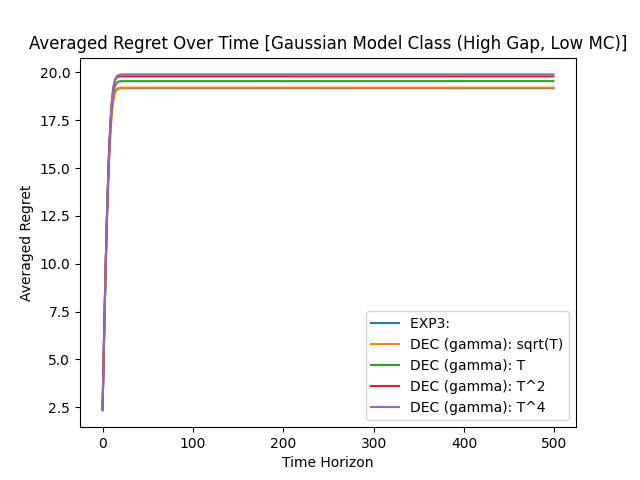
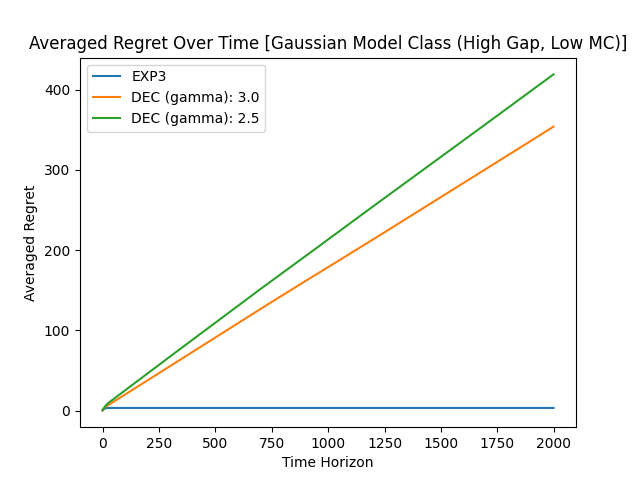
Now, we have some proper results: DEC is terrible in low MC and improves as MC increases

diff --git a/src/e2d/dec_player.py b/src/e2d/dec_player.py
@@ -21,47 +21,25 @@ class DEC_Player(Player):
 
     def select_action(self, f_m_hat, sq_hellinger_map):
         m_hat_index = self.algEst.get_m_hat_index()
-        sq_hellinger_map = self.get_sq_hellinger_map(m_hat_index, sq_hellinger_map)
-        self.dec_solver.compute_strategy(f_m_hat, sq_hellinger_map, self.gamma)
-        self.current_p = self.dec_solver.p_hat
+        self.dec_solver.compute_strategy(f_m_hat, sq_hellinger_map, self.gamma, m_hat_index, self.algEst.current_sampling_distribution())
+        self.current_p = self.dec_solver.p_hat / np.sum(self.dec_solver.p_hat)
+        self.dec = self.dec_solver.DEC_hat
         return np.random.choice(self.K, p = self.current_p)
 
     def update_training_dataset(self, r_t, a_t, f_m_hat, model_class, run, t):
-        self.algEst.add_to_training_data_set(f_m_hat[:, a_t], r_t)
+        self.algEst.add_to_training_data_set(f_m_hat[:, a_t], r_t, self.current_p[a_t])
         if (t == 0):
-            self.accumulated_regret[run][0] = model_class.compute_instantaneous_regret(self.current_p)
+            self.accumulated_regret[run][0] = model_class.compute_instantaneous_regret(self.current_p, self.label, t)
         else:
-            self.accumulated_regret[run][t] = self.accumulated_regret[run][t-1] + model_class.compute_instantaneous_regret(self.current_p)
+            self.accumulated_regret[run][t] = self.accumulated_regret[run][t-1] + model_class.compute_instantaneous_regret(self.current_p, self.label, t)
 
-        if (t == self.T - 1):
+        if (run % 10 == 0 and t == self.T - 1):
             self.algEst.clear()
-            print("Final Averaged Regret of Player {0} of run {1} : {2}".format(self.label, run, self.accumulated_regret[run][self.T - 1]))
+            print("Regret of Player {0} of run {1} : {2} with DEC Estimate {3}".format(self.label, run, self.accumulated_regret[run][self.T - 1], self.dec))
 
     def plot_averaged_regret(self):
         sd = 1.96 * (np.std(self.accumulated_regret, axis = 0) / np.sqrt(self.numRuns))
         plt.plot(range(self.T), np.mean(self.accumulated_regret, axis=0), label=self.label)
 
-    def get_sq_hellinger_map(self, m_hat_index, sq_hellinger_divergence_map):
-        combs = list(itertools.combinations(range(self.M), 2))
-        relevant_comb_indices = []
-
-        searching_for_model_ind = 0
-        if (m_hat_index == 0):
-            searching_for_model_ind = 1
-
-        for i in range(len(combs)):
-            if ((combs[i][0] == m_hat_index and combs[i][1] == searching_for_model_ind)):
-                relevant_comb_indices.append(i)
-                searching_for_model_ind += 1
-            elif((combs[i][1] == m_hat_index and combs[i][0] == searching_for_model_ind)):
-                relevant_comb_indices.append(i)
-                searching_for_model_ind += 1
-                if (searching_for_model_ind == m_hat_index):
-                    searching_for_model_ind += 1
-        sq_hellinger_map = np.zeros(shape = (self.M, self.K))
-        j = 0
-        for i in range(self.M):
-            if (i != m_hat_index):
-                sq_hellinger_map[i, :] = sq_hellinger_divergence_map[relevant_comb_indices[j], :]
-                j += 1
-        return sq_hellinger_map
+    def get_final_averaged_regret(self):
+        return np.mean(self.accumulated_regret, axis = 0)[self.T - 1]

diff --git a/src/e2d/meta_algo.py b/src/e2d/meta_algo.py
@@ -26,7 +26,11 @@ class Meta_Algo():
         for i in range(self.num_runs):
             self.mc_estimator.draw_samples(self.m)
             self.f_m_hat = self.mc_estimator.get_f_m_hat()
-            self.sq_hellinger_divergence_map = self.mc_estimator.get_sq_hellinger_divergence_hat()
+            
+            self.sq_hellinger_divergence_matrix = self.mc_estimator.get_sq_hellinger_divergence_hat()
+            self.sq_hellinger_divergence_map = np.zeros(shape = (self.M, self.M, self.K))
+            for y in range(self.M):
+                self.sq_hellinger_divergence_map[y] = self.get_sq_hellinger_map(y, self.sq_hellinger_divergence_matrix)
 
             for j in range(self.T):
                 for p in range(len(self.players)):
@@ -39,8 +43,40 @@ class Meta_Algo():
         plt.ylabel('Averaged Regret')
         plt.xlabel('Time Horizon')
         plt.title(self.title)
+
+        players_regret = np.zeros(shape = len(self.players))
         for p in range(len(self.players)):
-            self.players[p].plot_averaged_regret()
+            players_regret[p] = self.players[p].get_final_averaged_regret()
+
+        sorted_players = np.argsort(players_regret)
+        for i in range(3):
+            self.players[sorted_players[i]].plot_averaged_regret()
+
         plt.legend()
         plt.savefig("/Users/sidbajaj/MultiArmedBandits/results/e2d/" + self.file_name)
+    
+    def get_sq_hellinger_map(self, m_hat_index, sq_hellinger_divergence_map):
+        combs = list(itertools.combinations(range(self.M), 2))
+        relevant_comb_indices = []
+
+        searching_for_model_ind = 0
+        if (m_hat_index == 0):
+            searching_for_model_ind = 1
+
+        for i in range(len(combs)):
+            if ((combs[i][0] == m_hat_index and combs[i][1] == searching_for_model_ind)):
+                relevant_comb_indices.append(i)
+                searching_for_model_ind += 1
+            elif((combs[i][1] == m_hat_index and combs[i][0] == searching_for_model_ind)):
+                relevant_comb_indices.append(i)
+                searching_for_model_ind += 1
+                if (searching_for_model_ind == m_hat_index):
+                    searching_for_model_ind += 1
+        sq_hellinger_map = np.zeros(shape = (self.M, self.K))
+        j = 0
+        for i in range(self.M):
+            if (i != m_hat_index):
+                sq_hellinger_map[i, :] = sq_hellinger_divergence_map[relevant_comb_indices[j], :]
+                j += 1
+        return sq_hellinger_map
     

diff --git a/scripts/e2d/gaussian_e2d_2.py b/scripts/e2d/gaussian_e2d_2.py
@@ -11,22 +11,26 @@ from e2d.meta_algo import Meta_Algo
 from e2d.exp3_player import Exp3_Player
 from e2d.dec_player import DEC_Player
 
-np.random.seed(900)
-T = 500 # Time Horizon
+#np.random.seed(900)
+T = 2000 # Time Horizon
 K = 10 # Number of Arms
 M = 25 # Number of Models
-NUM_RUNS = 1000
+NUM_RUNS = 100
 m = 1000 # Monte-Carlo Sample Size
 
 model_class = Gaussian_Model_Collection(K = K, M = M, Optimality_Gap=2.5)
 mc_estimator = MC_Estimator(finite_model_class = model_class)
-exp3_player = Exp3_Player(M = M, T = T, K = K, numRuns = NUM_RUNS, algEst=Exp_Weights_Oracle(T = T, M = M), label="EXP3: ")
-dec_1_player = DEC_Player(M = M, T = T, K = K, numRuns = NUM_RUNS, algEst=Exp_Weights_Oracle(T = T, M = M), gamma = np.sqrt(T), label="DEC (gamma): sqrt(T)")
-dec_2_player = DEC_Player(M = M, T = T, K = K, numRuns = NUM_RUNS, algEst=Exp_Weights_Oracle(T = T, M = M), gamma = T, label="DEC (gamma): T")
-dec_3_player = DEC_Player(M = M, T = T, K = K, numRuns = NUM_RUNS, algEst=Exp_Weights_Oracle(T = T, M = M), gamma = T**2, label="DEC (gamma): T^2")
-dec_4_player = DEC_Player(M = M, T = T, K = K, numRuns = NUM_RUNS, algEst=Exp_Weights_Oracle(T = T, M = M), gamma = T**4, label="DEC (gamma): T^4")
+
+players = []
+players.append(Exp3_Player(M = M, T = T, K = K, numRuns = NUM_RUNS, algEst=Exp_Weights_Oracle(T = T, M = M), label="EXP3"))
+
+gamma = [0.25, 0.5, 0.75, 1.0, 1.5, 2.0, 2.5, 3.0, 5.0]
+for g in range(len(gamma)):
+    players.append(DEC_Player(M = M, T = T, K = K, numRuns = NUM_RUNS, algEst=Exp_Weights_Oracle(T = T, M = M), 
+                              gamma = gamma[g], label="DEC (gamma): {}".format(gamma[g])))
+
 meta_algo = Meta_Algo(M = M, K = K, T = T, 
-                      mc_estimator= mc_estimator, players=[exp3_player, dec_1_player, dec_2_player, dec_3_player, dec_4_player],
+                      mc_estimator= mc_estimator, players=players,
                       finite_model_class = model_class, num_runs = NUM_RUNS, m = m, 
                       file_name = "Gaussian_High_Gap_High_MC",
                       title = "Averaged Regret Over Time [Gaussian Model Class (High Gap, High MC)]")

diff --git a/scripts/e2d/gaussian_e2d_3.py b/scripts/e2d/gaussian_e2d_3.py
@@ -12,21 +12,25 @@ from e2d.exp3_player import Exp3_Player
 from e2d.dec_player import DEC_Player
 
 np.random.seed(900)
-T = 500 # Time Horizon
+T = 2000 # Time Horizon
 K = 10 # Number of Arms
 M = 25 # Number of Models
-NUM_RUNS = 1000
-m = 75 # Monte-Carlo Sample Size
+NUM_RUNS = 100
+m = 25 # Monte-Carlo Sample Size
 
 model_class = Gaussian_Model_Collection(K = K, M = M, Optimality_Gap=2.5)
 mc_estimator = MC_Estimator(finite_model_class = model_class)
-exp3_player = Exp3_Player(M = M, T = T, K = K, numRuns = NUM_RUNS, algEst=Exp_Weights_Oracle(T = T, M = M), label="EXP3: ")
-dec_1_player = DEC_Player(M = M, T = T, K = K, numRuns = NUM_RUNS, algEst=Exp_Weights_Oracle(T = T, M = M), gamma = np.sqrt(T), label="DEC (gamma): sqrt(T)")
-dec_2_player = DEC_Player(M = M, T = T, K = K, numRuns = NUM_RUNS, algEst=Exp_Weights_Oracle(T = T, M = M), gamma = T, label="DEC (gamma): T")
-dec_3_player = DEC_Player(M = M, T = T, K = K, numRuns = NUM_RUNS, algEst=Exp_Weights_Oracle(T = T, M = M), gamma = T**2, label="DEC (gamma): T^2")
-dec_4_player = DEC_Player(M = M, T = T, K = K, numRuns = NUM_RUNS, algEst=Exp_Weights_Oracle(T = T, M = M), gamma = T**4, label="DEC (gamma): T^4")
+
+players = []
+players.append(Exp3_Player(M = M, T = T, K = K, numRuns = NUM_RUNS, algEst=Exp_Weights_Oracle(T = T, M = M), label="EXP3"))
+
+gamma = [0.01, 0.1, 0.25, 0.5, 0.75, 1.0, 1.5, 2.0, 2.5, 3.0]
+for g in range(len(gamma)):
+    players.append(DEC_Player(M = M, T = T, K = K, numRuns = NUM_RUNS, algEst=Exp_Weights_Oracle(T = T, M = M), 
+                              gamma = gamma[g], label="DEC (gamma): {}".format(gamma[g])))
+
 meta_algo = Meta_Algo(M = M, K = K, T = T, 
-                      mc_estimator= mc_estimator, players=[exp3_player, dec_1_player, dec_2_player, dec_3_player, dec_4_player],
+                      mc_estimator= mc_estimator, players=players,
                       finite_model_class = model_class, num_runs = NUM_RUNS, m = m, 
                       file_name = "Gaussian_High_Gap_Low_MC",
                       title = "Averaged Regret Over Time [Gaussian Model Class (High Gap, Low MC)]")

diff --git a/scripts/e2d/gaussian_e2d_4.py b/scripts/e2d/gaussian_e2d_4.py
@@ -12,21 +12,25 @@ from e2d.exp3_player import Exp3_Player
 from e2d.dec_player import DEC_Player
 
 np.random.seed(900)
-T = 500 # Time Horizon
+T = 2000 # Time Horizon
 K = 10 # Number of Arms
 M = 25 # Number of Models
-NUM_RUNS = 1000
-m = 75 # Monte-Carlo Sample Size
+NUM_RUNS = 100
+m = 25 # Monte-Carlo Sample Size
 
 model_class = Gaussian_Model_Collection(K = K, M = M, Optimality_Gap=1.00)
 mc_estimator = MC_Estimator(finite_model_class = model_class)
-exp3_player = Exp3_Player(M = M, T = T, K = K, numRuns = NUM_RUNS, algEst=Exp_Weights_Oracle(T = T, M = M), label="EXP3: ")
-dec_1_player = DEC_Player(M = M, T = T, K = K, numRuns = NUM_RUNS, algEst=Exp_Weights_Oracle(T = T, M = M), gamma = np.sqrt(T), label="DEC (gamma): sqrt(T)")
-dec_2_player = DEC_Player(M = M, T = T, K = K, numRuns = NUM_RUNS, algEst=Exp_Weights_Oracle(T = T, M = M), gamma = T, label="DEC (gamma): T")
-dec_3_player = DEC_Player(M = M, T = T, K = K, numRuns = NUM_RUNS, algEst=Exp_Weights_Oracle(T = T, M = M), gamma = T**2, label="DEC (gamma): T^2")
-dec_4_player = DEC_Player(M = M, T = T, K = K, numRuns = NUM_RUNS, algEst=Exp_Weights_Oracle(T = T, M = M), gamma = T**4, label="DEC (gamma): T^4")
+
+players = []
+players.append(Exp3_Player(M = M, T = T, K = K, numRuns = NUM_RUNS, algEst=Exp_Weights_Oracle(T = T, M = M), label="EXP3"))
+
+gamma = [0.01, 0.1, 0.25, 0.5, 0.75, 1.0, 1.5, 2.0, 2.5, 3.0]
+for g in range(len(gamma)):
+    players.append(DEC_Player(M = M, T = T, K = K, numRuns = NUM_RUNS, algEst=Exp_Weights_Oracle(T = T, M = M), 
+                              gamma = gamma[g], label="DEC (gamma): {}".format(gamma[g])))
+
 meta_algo = Meta_Algo(M = M, K = K, T = T, 
-                      mc_estimator= mc_estimator, players=[exp3_player, dec_1_player, dec_2_player, dec_3_player, dec_4_player],
+                      mc_estimator= mc_estimator, players=players,
                       finite_model_class = model_class, num_runs = NUM_RUNS, m = m, 
                       file_name = "Gaussian_Low_Gap_Low_MC",
                       title = "Averaged Regret Over Time [Gaussian Model Class (Low Gap, Low MC)]")

diff --git a/src/e2d/exp3_player.py b/src/e2d/exp3_player.py
@@ -25,16 +25,19 @@ class Exp3_Player(Player):
         return np.random.choice(self.K, p = self.current_p)
 
     def update_training_dataset(self, r_t, a_t, f_m_hat, model_class, run, t):
-        self.algEst.add_to_training_data_set(f_m_hat[:, a_t], r_t)
+        self.algEst.add_to_training_data_set(f_m_hat[:, a_t], r_t, self.current_p[a_t])
         if (t == 0):
-            self.accumulated_regret[run][0] = model_class.compute_instantaneous_regret(self.current_p)
+            self.accumulated_regret[run][0] = model_class.compute_instantaneous_regret(self.current_p, self.label, t)
         else:
-            self.accumulated_regret[run][t] = self.accumulated_regret[run][t-1] + model_class.compute_instantaneous_regret(self.current_p)
+            self.accumulated_regret[run][t] = self.accumulated_regret[run][t-1] + model_class.compute_instantaneous_regret(self.current_p, self.label, t)
 
-        if (t == self.T - 1):
+        if (run % 10 == 0 and t == self.T - 1):
             self.algEst.clear()
             print("Final Averaged Regret of Player {0} of run {1} : {2}".format(self.label, run, self.accumulated_regret[run][self.T - 1]))
 
     def plot_averaged_regret(self):
         sd = 1.96 * (np.std(self.accumulated_regret, axis = 0) / np.sqrt(self.numRuns))
         plt.plot(range(self.T), np.mean(self.accumulated_regret, axis=0), label=self.label)
+
+    def get_final_averaged_regret(self):
+        return np.mean(self.accumulated_regret, axis = 0)[self.T - 1]

diff --git a/src/e2d/exp_weights_oracle.py b/src/e2d/exp_weights_oracle.py
@@ -2,6 +2,7 @@ from abc import ABC, abstractmethod
 import numpy as np
 from numpy import random
 from e2d.estimation_oracle import Estimation_Oracle
+from scipy.special import softmax
 import math
 
 # Estimation Oracle class
@@ -18,16 +19,13 @@ class Exp_Weights_Oracle(Estimation_Oracle):
         self.p = (np.ones(shape = self.M) / self.M)
 
     def get_m_hat_index(self):
-        prob_distr = np.zeros(shape = self.M) 
-        for i in range(self.M):
-            prob_distr[i] = math.exp(-1 * self.neta * self.accumulated_losses[i])
-        normalization_constant = np.sum(prob_distr)
-        self.p = prob_distr / normalization_constant 
+        self.p = softmax(- self.neta * self.accumulated_losses)
         return np.random.choice(self.M, p = self.p)
 
-    def add_to_training_data_set(self, f_m_hat, r_t):
+    def add_to_training_data_set(self, f_m_hat, r_t, p_t):
         for i in range(self.M):
-            self.accumulated_losses[i] += (f_m_hat[i] - r_t)**2
+            p_t = 1
+            self.accumulated_losses[i] += ((f_m_hat[i] - r_t)**2 / p_t)
         #print(self.accumulated_losses)
 
     def clear(self):

diff --git a/scripts/e2d/gaussian_e2d_6.py b/scripts/e2d/gaussian_e2d_6.py
@@ -16,9 +16,9 @@ T = 2000 # Time Horizon
 K = 10 # Number of Arms
 M = 25 # Number of Models
 NUM_RUNS = 100
-m = 1000 # Monte-Carlo Sample Size
+m = 100 # Monte-Carlo Sample Size
 
-model_class = Gaussian_Model_Collection(K = K, M = M, Optimality_Gap=1.00)
+model_class = Gaussian_Model_Collection(K = K, M = M, Optimality_Gap=2.50)
 mc_estimator = MC_Estimator(finite_model_class = model_class)
 
 players = []
@@ -32,6 +32,6 @@ for g in range(len(gamma)):
 meta_algo = Meta_Algo(M = M, K = K, T = T, 
                       mc_estimator= mc_estimator, players=players,
                       finite_model_class = model_class, num_runs = NUM_RUNS, m = m, 
-                      file_name = "Gaussian_Low_Gap_High_MC",
-                      title = "Averaged Regret Over Time [Gaussian Model Class (Low Gap, High MC)]")
+                      file_name = "Gaussian_High_Gap_Mid_MC",
+                      title = "Averaged Regret Over Time [Gaussian Model Class (High Gap, Med MC)]")
 meta_algo.compute_averaged_regret()

diff --git a/src/e2d/dec_solver.py b/src/e2d/dec_solver.py
@@ -14,7 +14,8 @@ class DEC_Solver():
         self.M = M
         self.K = K
 
-    def compute_strategy(self, f_m_hat, hellinger_divergence_hat, gamma):
+    # hellinger_divergence_hat is a M x M x k
+    def compute_strategy(self, f_m_hat, hellinger_divergence_hat, gamma, m_hat_index, p_exp):
         self.hell_div_hat = hellinger_divergence_hat
         self.f_m_hat = f_m_hat
     
@@ -29,7 +30,10 @@ class DEC_Solver():
             b[i] = -1 * np.max(self.f_m_hat[i, :])
             A_ub[i][0] = -1 
             for j in range(self.K):
-                A_ub[i][j + 1] = (-1 * ((gamma * self.hell_div_hat[i][j]) + self.f_m_hat[i][j]))
+                r = 0
+                for m in range(self.M):
+                    r += (p_exp[m] * self.hell_div_hat[m][i][j])
+                A_ub[i][j + 1] = (-1 * ((gamma * r) + self.f_m_hat[i][j]))
 
         # ensuring that p is in the simplex
         A_eq = np.ones(shape = (1, self.K + 1))

diff --git a/scripts/e2d/gaussian_e2d_5.py b/scripts/e2d/gaussian_e2d_5.py
@@ -16,7 +16,7 @@ T = 2000 # Time Horizon
 K = 10 # Number of Arms
 M = 25 # Number of Models
 NUM_RUNS = 100
-m = 1000 # Monte-Carlo Sample Size
+m = 100 # Monte-Carlo Sample Size
 
 model_class = Gaussian_Model_Collection(K = K, M = M, Optimality_Gap=1.00)
 mc_estimator = MC_Estimator(finite_model_class = model_class)
@@ -32,6 +32,6 @@ for g in range(len(gamma)):
 meta_algo = Meta_Algo(M = M, K = K, T = T, 
                       mc_estimator= mc_estimator, players=players,
                       finite_model_class = model_class, num_runs = NUM_RUNS, m = m, 
-                      file_name = "Gaussian_Low_Gap_High_MC",
-                      title = "Averaged Regret Over Time [Gaussian Model Class (Low Gap, High MC)]")
+                      file_name = "Gaussian_Low_Gap_Mid_MC",
+                      title = "Averaged Regret Over Time [Gaussian Model Class (Low Gap, Mid MC)]")
 meta_algo.compute_averaged_regret()

diff --git a/src/e2d/gaussian_model_collection.py b/src/e2d/gaussian_model_collection.py
@@ -22,11 +22,12 @@ class Gaussian_Model_Collection(Finite_Model_Collection):
     def get_rt(self, action_pi):
         return self.models[self.M_star].generate_observation()[action_pi]
     
-    def compute_instantaneous_regret(self, p_t):
-        self.t += 1
+    def compute_instantaneous_regret(self, p_t, label, t):
         instantaneuous_regret = (self.models[self.M_star].arm_means[self.pi_star] - np.sum(np.multiply(p_t, self.models[self.M_star].arm_means)))
-        # if (self.t % 1000):
-            #print(instantaneuous_regret)
+        # if (t % 100 == 0 and (label == "DEC (gamma): 2.0")):
+        #    print(p_t)
+        #    print("{0} at time {1}".format(instantaneuous_regret, t))
+        #    print("*****")
         return instantaneuous_regret
     
     # draws a [K x m] Monte-Carlo sample 

diff --git a/src/e2d/mc_estimator.py b/src/e2d/mc_estimator.py
@@ -52,9 +52,11 @@ class MC_Estimator():
             model_i_action_a = sample_model_i[a, :]
             model_j_acton_a = sample_model_j[a, :]
 
-            lambda_mixture = 0.25
+            lambda_mixture = 0.5
             bootstrap_sample_x = []
             y = np.random.binomial(n = 1, p = lambda_mixture, size = self.m)
+            y[0] = 0
+            y[1] = 1
             for j in range(self.m):
                 if (y[j] == 0):
                     bootstrap_sample_x.append([model_i_action_a[np.random.randint(self.m)]])
